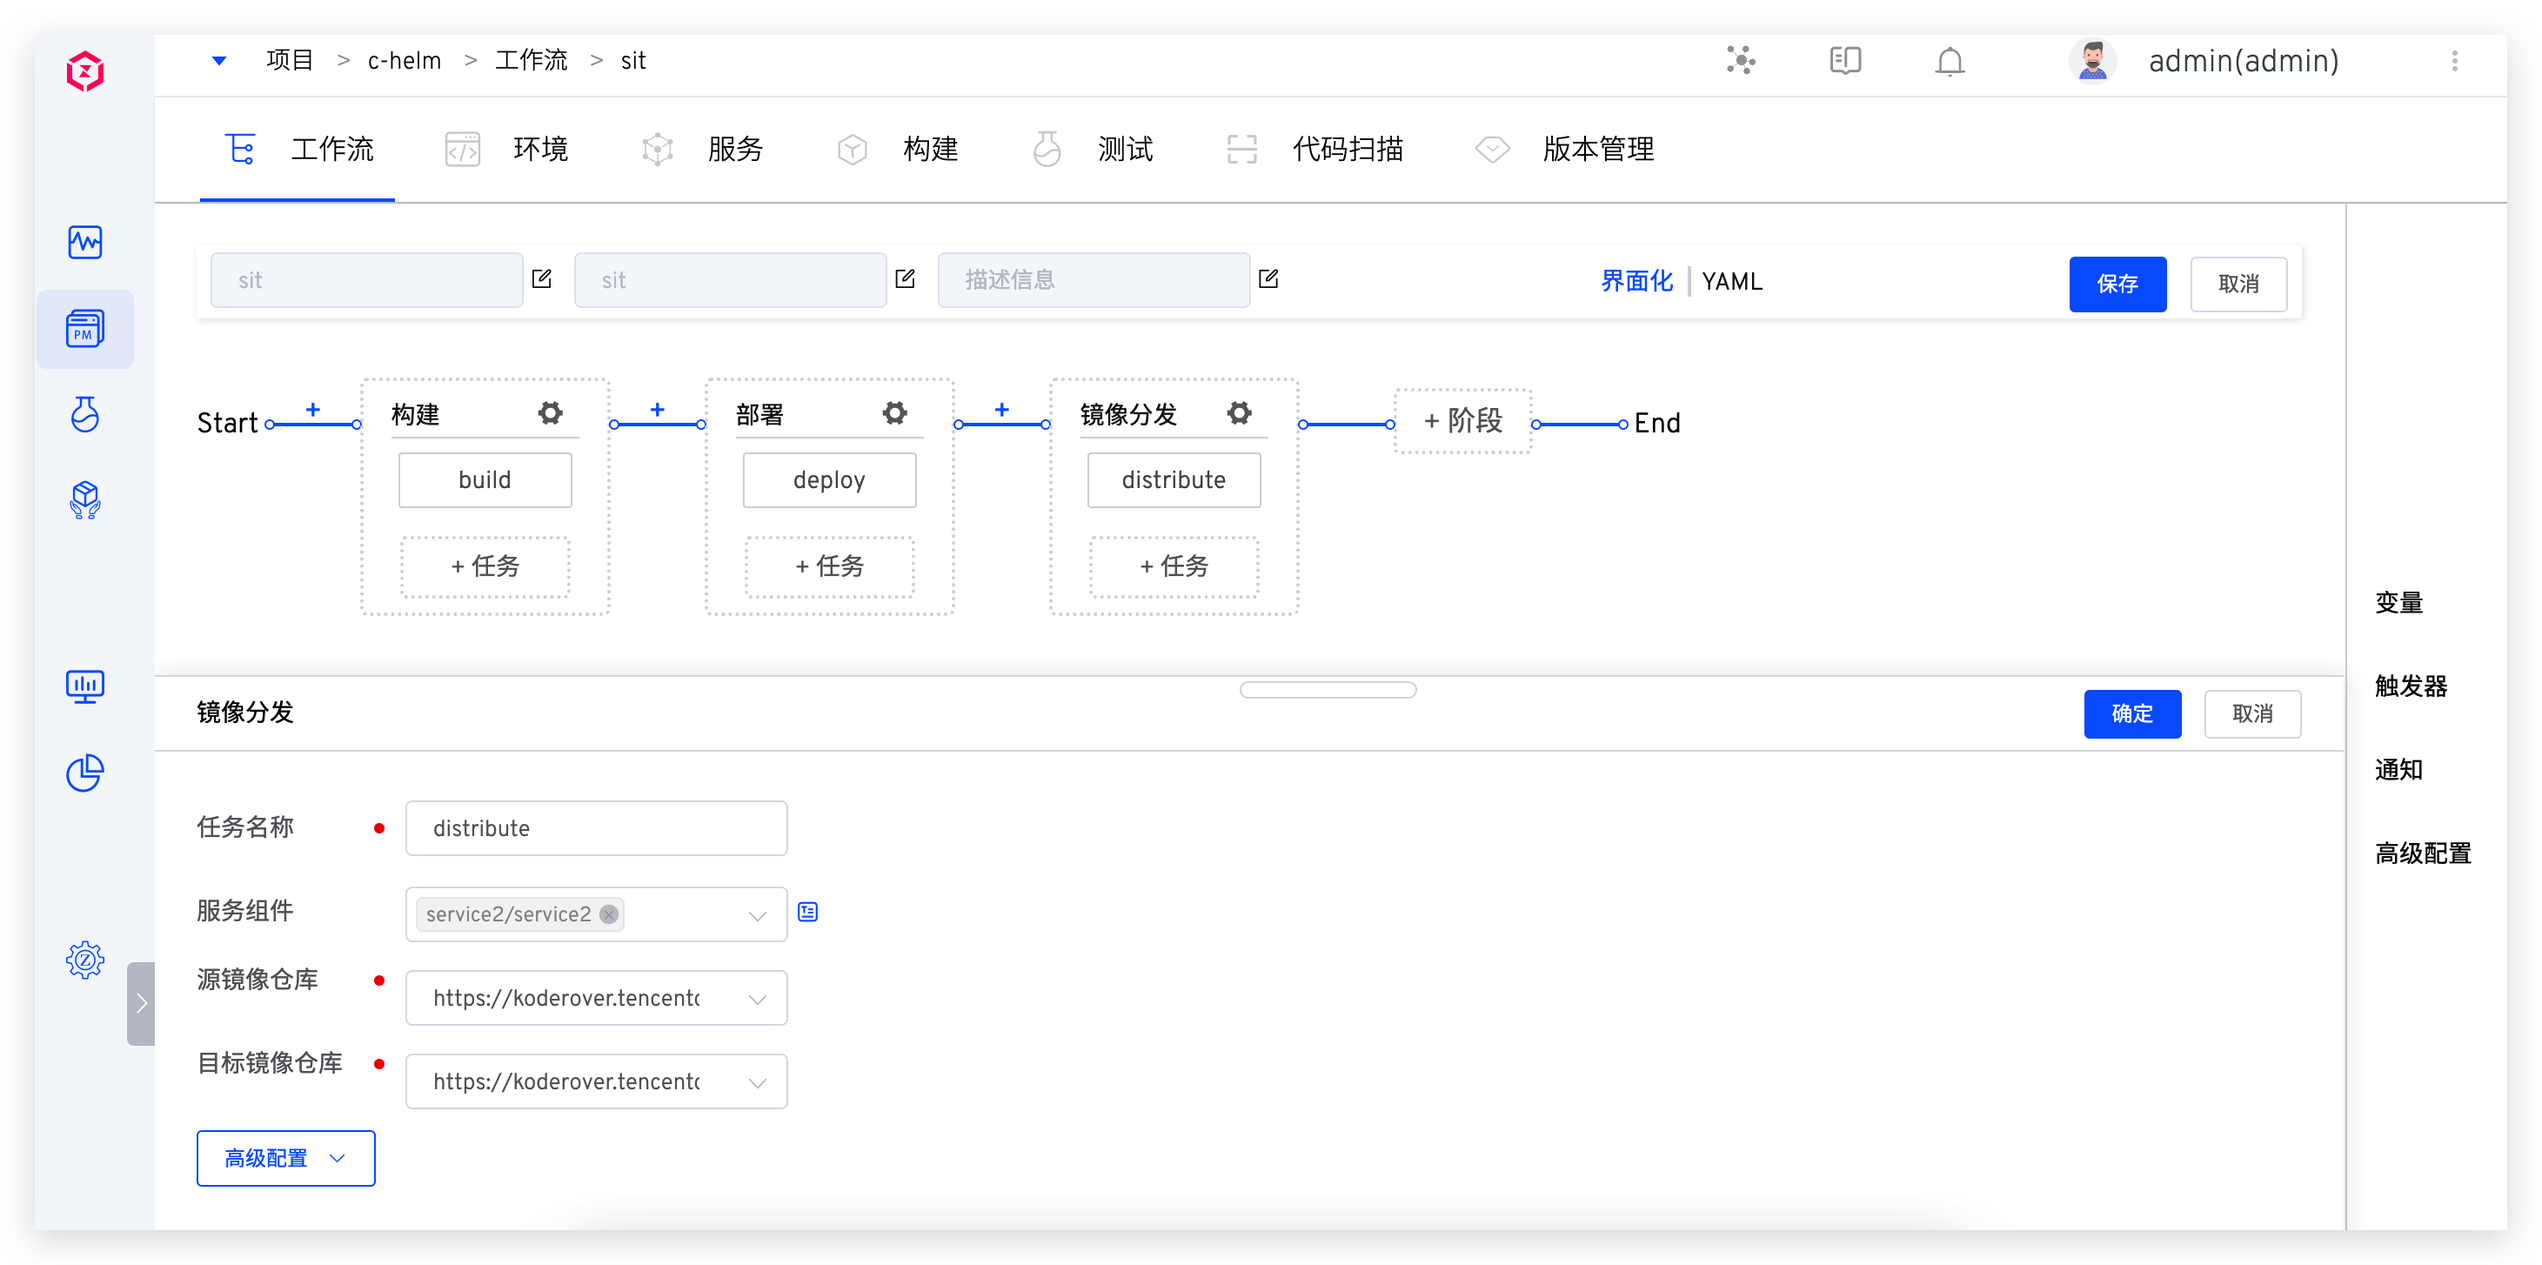
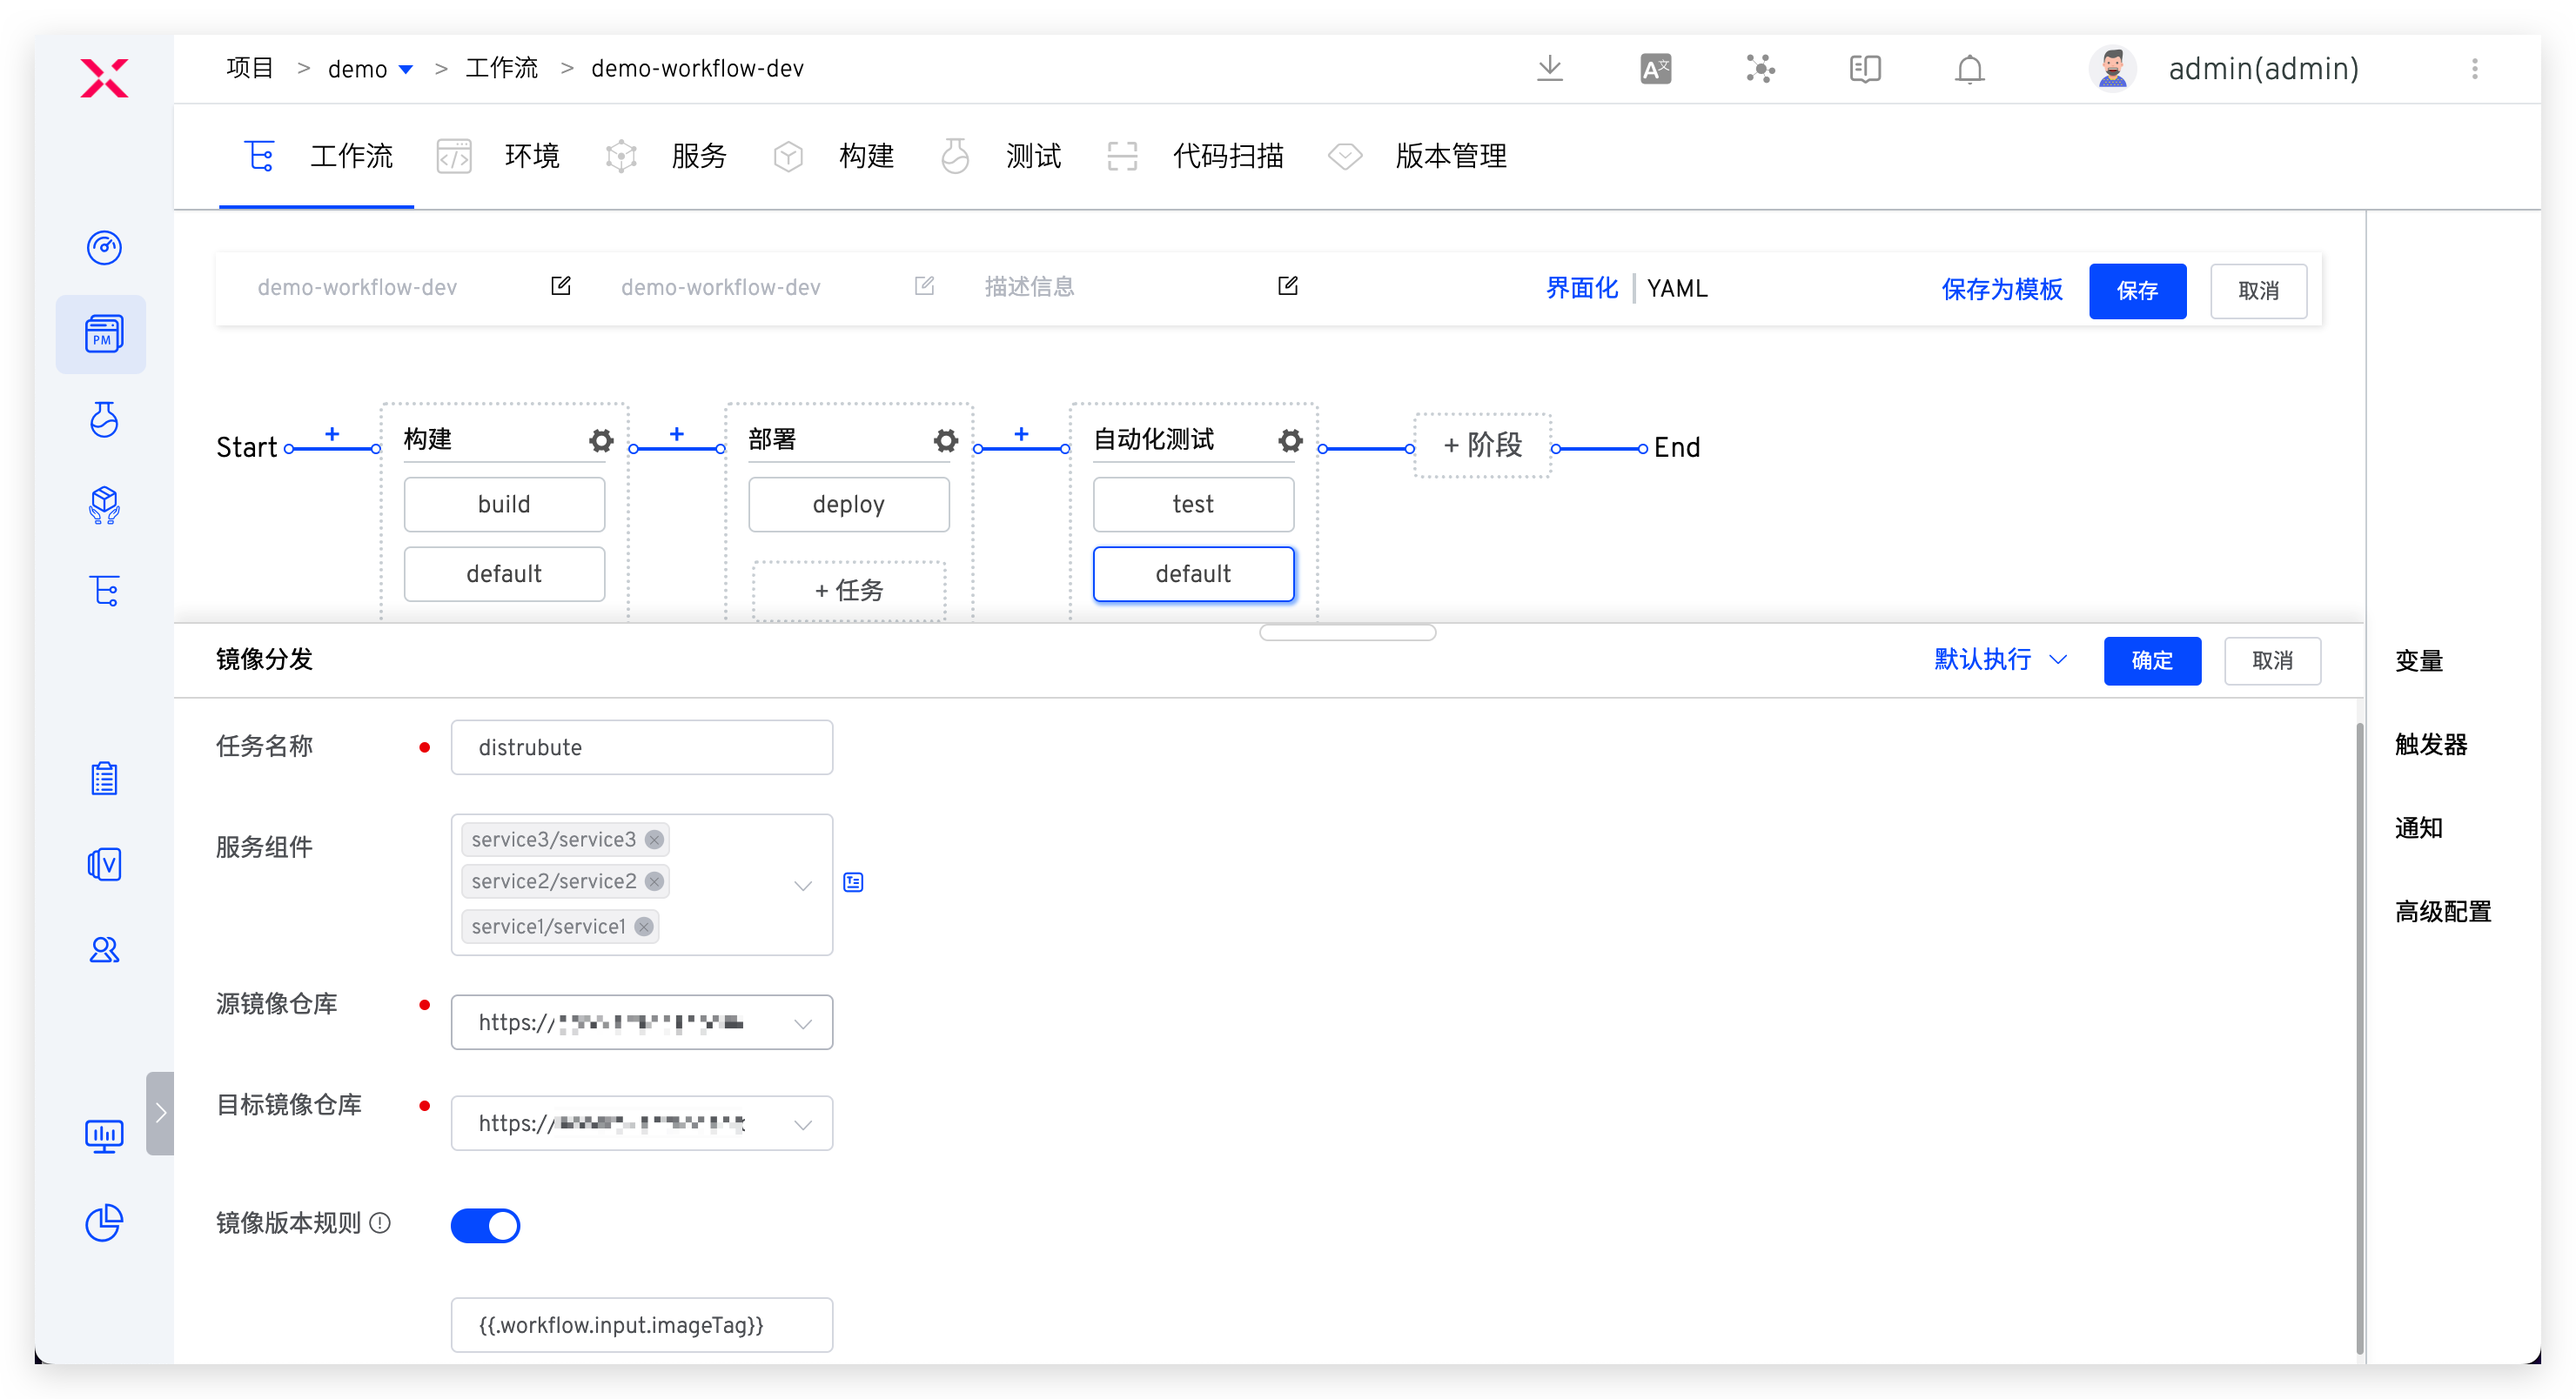
distrubute job image config

diff --git a/ZadigX v1.5.0/05.功能介绍/02.工作流/04.workflow_jobs.md b/ZadigX v1.5.0/05.功能介绍/02.工作流/04.workflow_jobs.md
@@ -255,9 +255,31 @@ permalink: /ZadigX v1.5.0/project/workflow-jobs/
 
 参数说明：
 - `任务名称`：在同一个自定义工作流中，任务名称需唯一。
-- `服务组件`：需要做镜像分发的服务组件。
+- `服务组件`：需要做镜像分发的服务组件，支持手动输入和其他任务输出两种方式。
 - `源镜像仓库`：待分发的镜像来源。
 - `目标镜像仓库`：镜像分发的目标仓库。
+- `镜像版本规则`：开启后，镜像分发任务将根据指定规则生成目标镜像的版本，支持变量和常量组合的方式来配置。
+
+执行时不允许用户指定目标镜像版本，所有服务的镜像版本都按照配置中的规则生成
+
+镜像版本规则中可用变量列表：
+
+
+| 变量名 | 说明              |
+|--------|-----------------------------|
+| <span v-pre>`{{.project}}`</span> | 项目名称 |
+| <span v-pre>`{{.workflow.name}}`</span> | 工作流名称 |
+| <span v-pre>`{{.workflow.task.creator}}`</span>  | 工作流任务执行者 |
+| <span v-pre>`{{.workflow.task.timestamp}}`</span> | 工作流任务执行时间，Unix 时间戳格式 |
+| <span v-pre>`{{.workflow.task.id}}`</span> | 工作流任务序号 |
+| <span v-pre>`{{.workflow.input.imageTag}}`</span> | 当服务组件指定为运行时输入时可使用该变量，其值为输入的值 |
+| <span v-pre>`{{.job.<部署任务名称>.envName}}`</span>| 指定部署任务中的环境名称 |
+| <span v-pre>`{{.job.preBuild.imageTag}}`</span> | 当服务组件指定为其他任务输出时可使用该变量，其值为前置构建任务的镜像版本 |
+
+除上述变量外，还支持使用前置任务中输出的变量：
+
+- 对于构建任务，变量的形式为：<span v-pre>`{{.job.<任务名>.<服务名>.<服务组件名>.output.<输出变量名>}}`</span>
+- 对于其他任务，变量的形式为：<span v-pre>`{{.job.<任务名>.output.<输出变量名>}}`</span>
 
 ### 触发 Zadig 工作流
 
